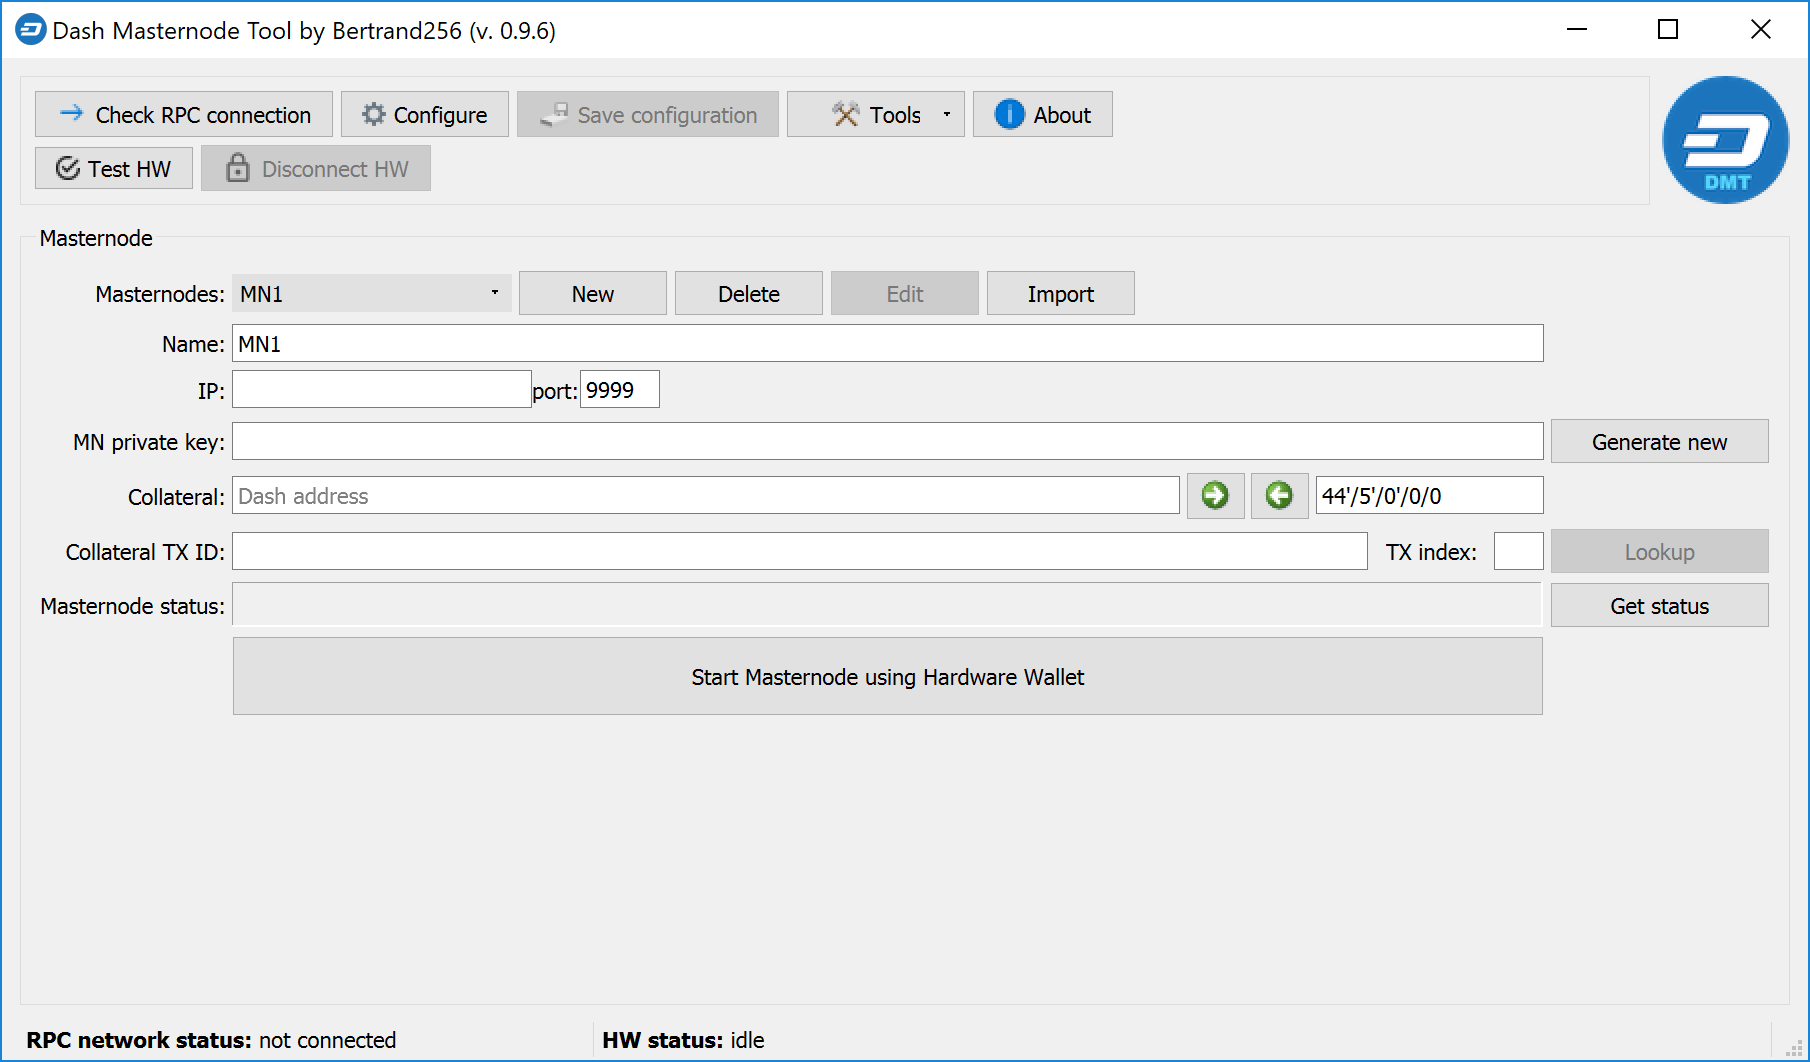
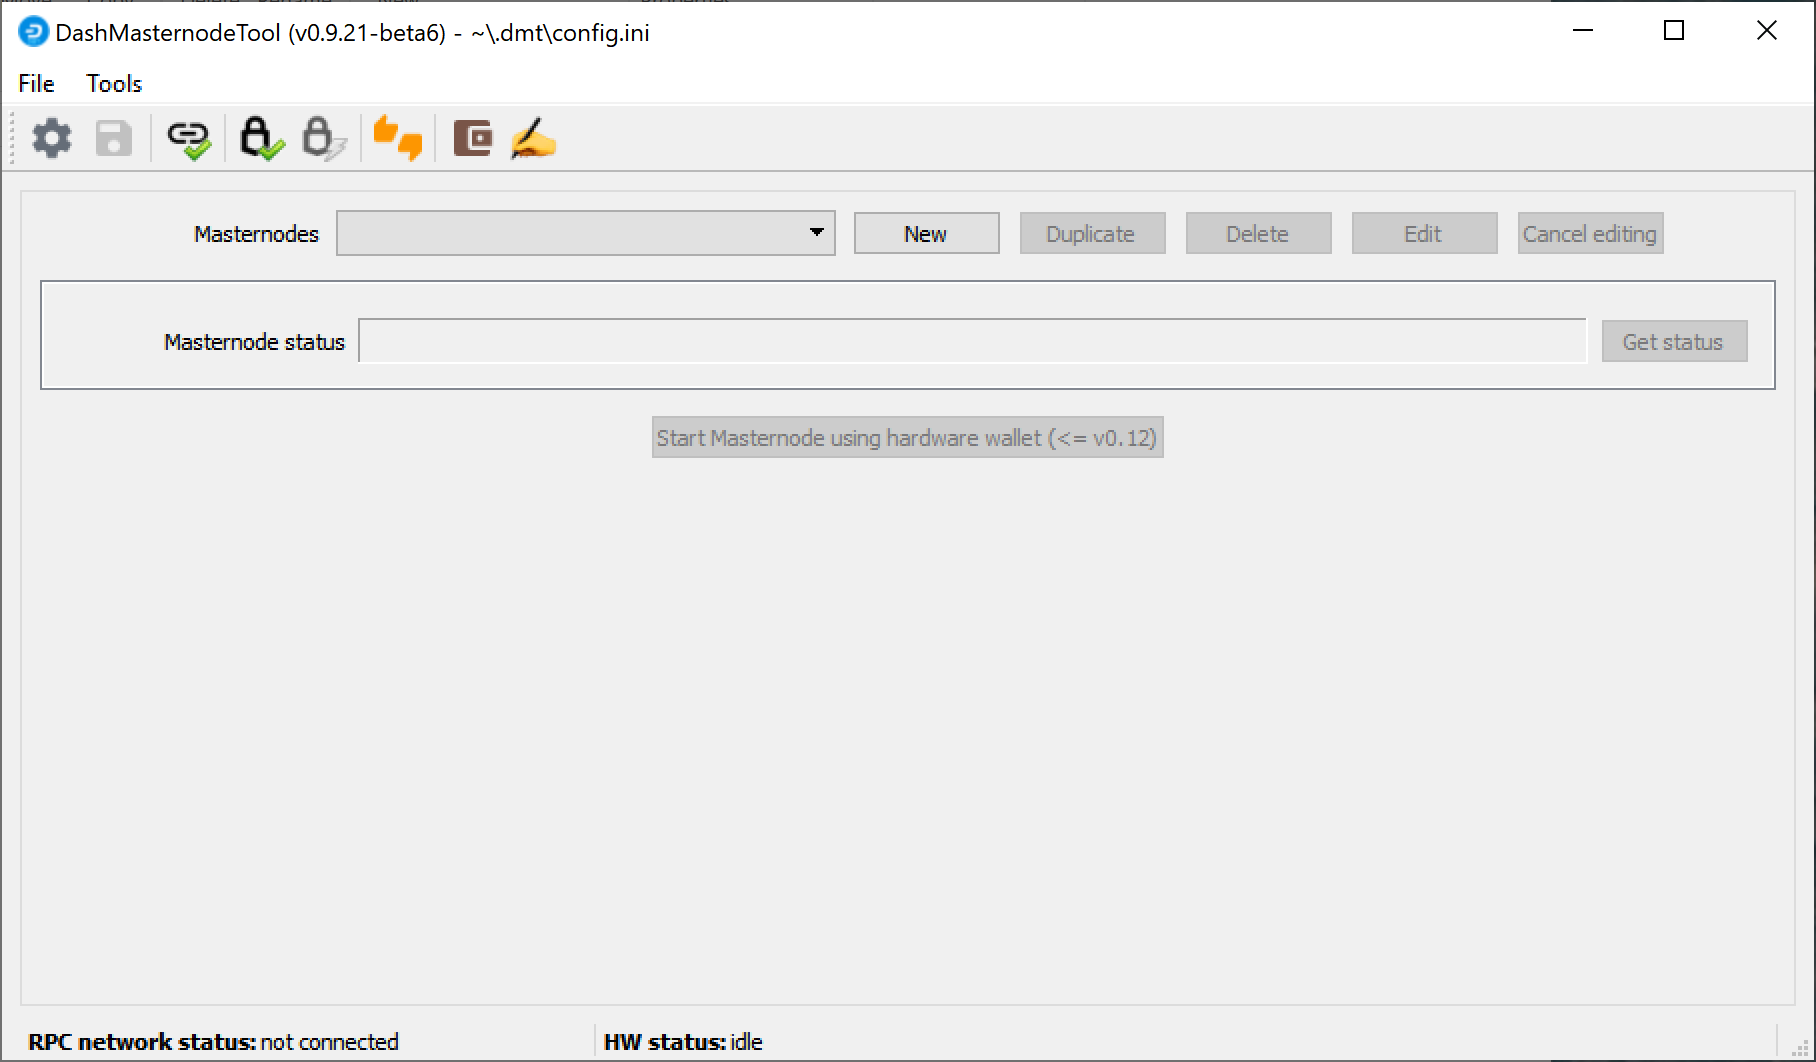
Initial DMT update changes

diff --git a/masternodes/setup.rst b/masternodes/setup.rst
@@ -57,8 +57,8 @@ before continuing in order to familiarize yourself with the new concepts
 in DIP3. This documentation describes the commands as if they were
 entered in the Dash Core GUI by opening the console from **Tools > Debug
 console**, but the same result can be achieved on a masternode by
-entering the same commands and adding the prefix ``~/.dashcore/dash-
-cli`` to each command.
+entering the same commands and adding the prefix 
+``~/.dashcore/dash-cli`` to each command.
 
 
 .. _vps-setup:
@@ -281,9 +281,6 @@ wallets and Dash Core.
 Option 1: Sending from a hardware wallet
 ----------------------------------------
 
-**NOTE: This documentation should be considered obsolete until DMT is
-updated to provide DIP3 support.**
-
 Set up your Trezor using the Trezor wallet at https://wallet.trezor.io/
 and send a test transaction to verify that it is working properly. For
 help on this, see :ref:`this guide <hardware-trezor>` - you may also
@@ -322,9 +319,11 @@ and run the file. The following window appears.
 
    Dash Masternode Tool startup screen
 
-Click **Check RPC connection** in the top left corner of the main window
-to verify that the connection is working. Then connect your Trezor
-device and click **Test HW** to verify the Trezor connection is working.
+Click the third button from the left **Check Dash Network Connection**
+in the top left corner of the main window to verify that the connection
+is working. Then connect your Trezor device and click the next button
+**Test Hardware Wallet Connection** to verify the Trezor connection is
+working.
 
 .. image:: img/setup-collateral-connection.png
    :width: 100px
@@ -343,10 +342,9 @@ developer Bertrand256:
 
    Dash Masternode Tool configuration steps
 
-#. Enter the name of your masternode here. This should match the
-   hostname as defined when setting up your server, dashmn1 in this
-   case. You can view this in the first line of the output of
-   dashman/dashman status.
+#. Click the **New** button.
+#. Enter a name for your masternode here. The host name you specified 
+   for your VPS above is a good choice.
 #. Enter the IP address of your masternode here. This was given to you
    by the VPS provider when you set up the server.
 #. Enter the TCP port number. This should be 9999.
